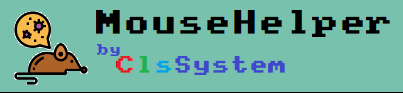
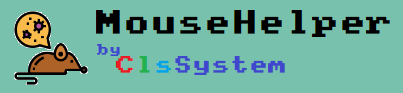
xxx

Changed region(s): [[0.0, 0.9892, 1.0, 1.0]]

diff --git a/_includes/header.html b/_includes/header.html
@@ -1,7 +1,7 @@
 <nav class="navbar navbar-expand-lg navbar-dark bg-primary">
     <div class="container">
         <a class="navbar-brand" rel="author" href="{{ "/" | relative_url }}">
-            <img src="https://clssystem.github.io/MouseHelperWebBeta/assets/images/MouseHelper.png" alt="MouseHelper" class="d-inline-block align-middle mr-2" />
+            <img src="https://clssystem.github.io/MouseHelperWebBeta/assets/images/MouseHelper.png" alt="MouseHelper" class="img-fluid" />
         </a>
 
         {%- assign page_paths = site.header_pages -%}
